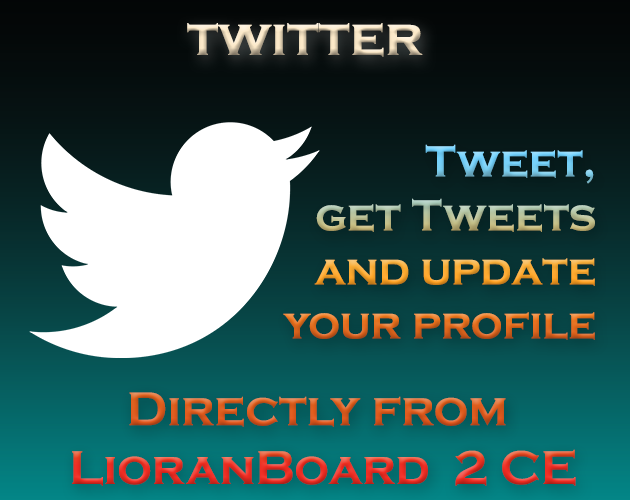
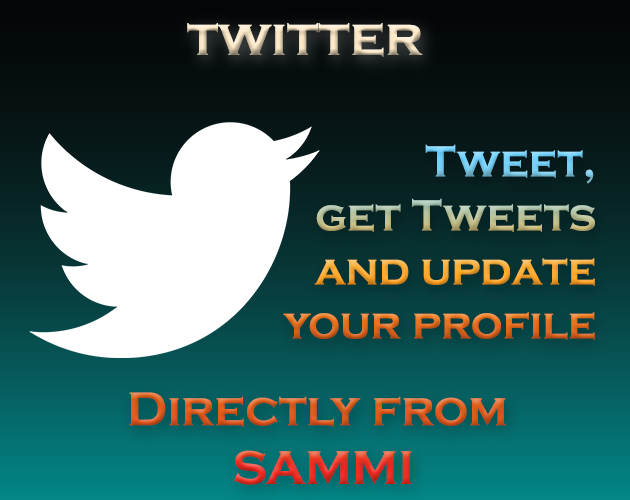
extension thumbnails renamed from lb to sammi

Changed region(s): [[0.0905, 0.9, 0.6937, 0.99], [0.7238, 0.9, 0.9349, 0.99]]

diff --git a/collections/_extensions/ifttt-to-sammi.md b/collections/_extensions/ifttt-to-sammi.md
@@ -9,7 +9,7 @@ permalink: extensions/productivity/:slug
 download_url: https://christinak.itch.io/ifttt-to-sammi
 developer_name: Christina K.
 developer_url: https://christinak.itch.io
-icon_local: ifttt_lb_icon.png
+icon_local: ifttt_sammi_icon.png
 screenshots_local: ifttt_lb.png
 trailer: https://www.youtube.com/embed/1gwlV_PxA9s
 version: 1.0
